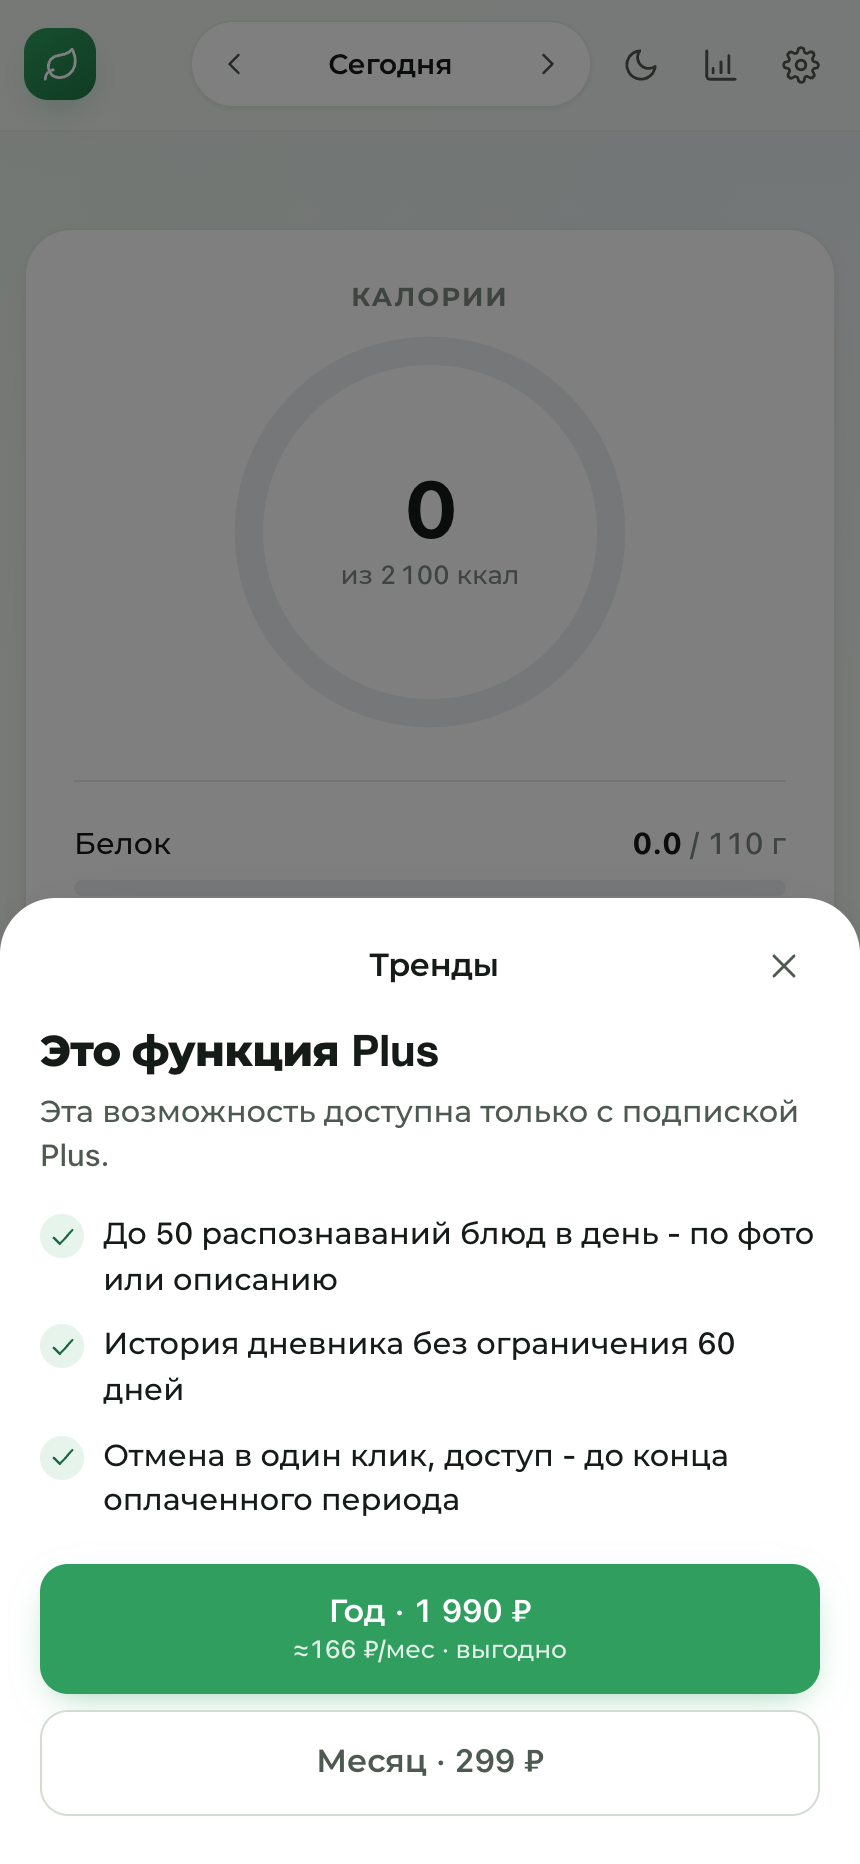
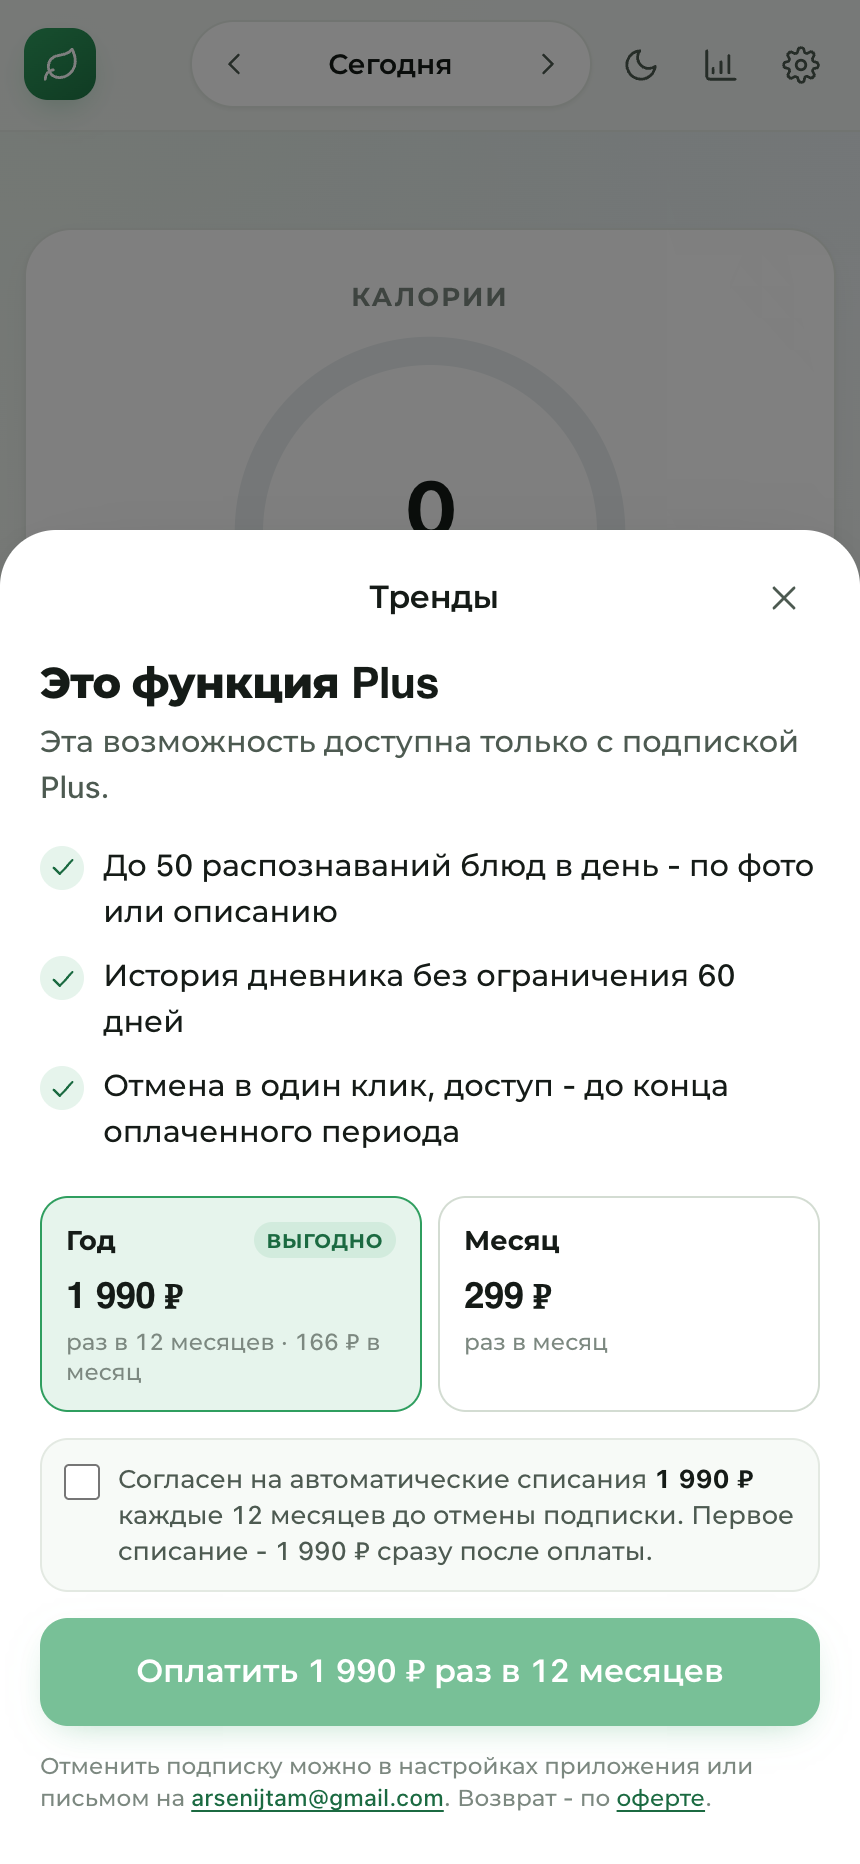
Пейволл: сумма и периодичность списания, чек-бокс согласия и контакты для отмены

diff --git a/web/src/components/PaywallSheet.tsx b/web/src/components/PaywallSheet.tsx
@@ -2,10 +2,16 @@
 import { useEffect, useState } from 'react';
 import { api, ApiError } from '../api';
 import { IconCheck } from './Icons';
+import '../styles/paywall.css';
 
 export type PaywallMode = 'quota' | 'feature' | 'plan';
 
 type Props = { mode: PaywallMode };
+
+type Plan = 'month' | 'year';
+
+/** Контакт для отмены подписки и возврата - требование банка-эквайера. */
+const SUPPORT_EMAIL = 'arsenijtam@gmail.com';
 
 const rub = (kopecks: number): string => (kopecks / 100).toLocaleString('ru-RU') + ' \u20BD';
 
@@ -29,7 +35,9 @@ const PERKS: string[] = [
 
 export function PaywallSheet({ mode }: Props) {
   const [status, setStatus] = useState<Awaited<ReturnType<typeof api.billingStatus>> | null>(null);
-  const [busy, setBusy] = useState<'month' | 'year' | null>(null);
+  const [plan, setPlan] = useState<Plan>('year');
+  const [consent, setConsent] = useState(false);
+  const [busy, setBusy] = useState<Plan | null>(null);
   const [error, setError] = useState<string | null>(null);
 
   useEffect(function () {
@@ -47,11 +55,19 @@ export function PaywallSheet({ mode }: Props) {
     };
   }, []);
 
-  const buy = function (plan: 'month' | 'year') {
+  const prices = status ? status.prices : { month: 29900, year: 199000 };
+  const amount = prices[plan];
+  const monthly = Math.round(prices.year / 12 / 100) * 100;
+  // Периодичность и сумма - прямо у кнопки: требование эквайринга.
+  const periodLabel = plan === 'year' ? 'раз в 12 месяцев' : 'раз в месяц';
+  const consentLabel = plan === 'year' ? 'каждые 12 месяцев' : 'каждый месяц';
+
+  const buy = function () {
+    if (!consent) return;
     setBusy(plan);
     setError(null);
     api
-      .checkout(plan)
+      .checkout(plan, true)
       .then(function (r) {
         window.location.href = r.paymentUrl;
       })
@@ -60,9 +76,6 @@ export function PaywallSheet({ mode }: Props) {
         setError(err instanceof ApiError ? err.message : 'Не удалось создать платёж.');
       });
   };
-
-  const month = status ? status.prices.month : 29900;
-  const year = status ? status.prices.year : 199000;
 
   return (
     <div className="paywall">
@@ -80,34 +93,68 @@ export function PaywallSheet({ mode }: Props) {
           );
         })}
       </ul>
-      {status && status.plus && (
-        <p className="paywall__active">Plus уже активен - приятного аппетита.</p>
-      )}
+
+      {status && status.plus && <p className="paywall__active">Plus уже активен - приятного аппетита.</p>}
       {error && <div className="alert alert-danger">{error}</div>}
-      <div className="d-grid gap-2">
-        <button
-          type="button"
-          className="btn btn-primary btn-lg w-100 paywall__cta"
-          disabled={busy !== null}
-          onClick={function () {
-            void buy('year');
-          }}
-        >
-          <span>Год · {rub(year)}</span>
-          <small>≈{Math.round(year / 12 / 100)} ₽/мес · выгодно</small>
-        </button>
-        <button
-          type="button"
-          className="btn btn-outline-secondary btn-lg w-100"
-          disabled={busy !== null}
-          onClick={function () {
-            void buy('month');
-          }}
-        >
-          {busy === 'month' ? 'Открываем банк…' : 'Месяц · ' + rub(month)}
-        </button>
+
+      <div className="paywall__plans" role="radiogroup" aria-label="Тариф подписки">
+        {(['year', 'month'] as Plan[]).map(function (p) {
+          const active = plan === p;
+          return (
+            <button
+              key={p}
+              type="button"
+              role="radio"
+              aria-checked={active}
+              className={'paywall__plan' + (active ? ' is-on' : '')}
+              onClick={function () {
+                setPlan(p);
+              }}
+            >
+              <span className="paywall__plan-head">
+                <b>{p === 'year' ? 'Год' : 'Месяц'}</b>
+                {p === 'year' && <span className="paywall__plan-badge">выгодно</span>}
+              </span>
+              <span className="paywall__plan-price">{rub(prices[p])}</span>
+              <span className="paywall__plan-note">
+                {p === 'year' ? 'раз в 12 месяцев · ' + rub(monthly) + ' в месяц' : 'раз в месяц'}
+              </span>
+            </button>
+          );
+        })}
       </div>
-      {busy === 'year' && <p className="hint mt-2 mb-0">Открываем банк…</p>}
+
+      <label className="paywall__consent">
+        <input
+          type="checkbox"
+          checked={consent}
+          onChange={function (e) {
+            setConsent(e.target.checked);
+          }}
+        />
+        <span>
+          Согласен на автоматические списания <b>{rub(amount)}</b> {consentLabel} до отмены подписки.
+          Первое списание - {rub(amount)} сразу после оплаты.
+        </span>
+      </label>
+
+      <button
+        type="button"
+        className="btn btn-primary btn-lg w-100"
+        disabled={!consent || busy !== null}
+        onClick={buy}
+      >
+        {busy ? 'Открываем банк…' : 'Оплатить ' + rub(amount) + ' ' + periodLabel}
+      </button>
+
+      <p className="paywall__legal">
+        Отменить подписку можно в настройках приложения или письмом на{' '}
+        <a href={'mailto:' + SUPPORT_EMAIL}>{SUPPORT_EMAIL}</a>. Возврат - по{' '}
+        <a href="/legal/offer.html" target="_blank" rel="noreferrer">
+          оферте
+        </a>
+        .
+      </p>
     </div>
   );
 }

diff --git a/web/src/styles/paywall.css b/web/src/styles/paywall.css
@@ -1,0 +1,96 @@
+
+/* ---------- Пейволл: выбор тарифа, согласие на списания ---------- */
+
+.paywall__plans {
+  display: grid;
+  grid-template-columns: 1fr 1fr;
+  gap: 0.5rem;
+  margin: 0 0 0.85rem;
+}
+
+.paywall__plan {
+  display: flex;
+  flex-direction: column;
+  gap: 0.1rem;
+  padding: 0.7rem 0.75rem;
+  text-align: left;
+  background-color: var(--surface);
+  border: 1.5px solid var(--line-2);
+  border-radius: var(--r);
+  transition: border-color var(--t-fast) var(--ease), background-color var(--t-fast) var(--ease);
+}
+
+.paywall__plan:hover { border-color: var(--accent); }
+
+.paywall__plan.is-on {
+  border-color: var(--accent);
+  background-color: var(--accent-soft);
+}
+
+.paywall__plan-head {
+  display: flex;
+  align-items: center;
+  justify-content: space-between;
+  gap: 0.4rem;
+  font-size: 0.8rem;
+  color: var(--text-2);
+}
+
+.paywall__plan-head b { font-size: 0.85rem; color: var(--text); font-weight: 700; }
+
+.paywall__plan-badge {
+  font-size: 0.62rem;
+  font-weight: 700;
+  text-transform: uppercase;
+  letter-spacing: 0.04em;
+  color: var(--accent-ink);
+  background-color: var(--accent-soft-2);
+  border-radius: var(--r-full);
+  padding: 0.1rem 0.4rem;
+}
+
+.paywall__plan-price {
+  font-family: 'Montserrat', sans-serif;
+  font-weight: 800;
+  font-size: 1.15rem;
+  letter-spacing: -0.02em;
+  color: var(--text);
+  margin-top: 0.15rem;
+}
+
+.paywall__plan-note { font-size: 0.72rem; line-height: 1.3; color: var(--muted); }
+
+.paywall__consent {
+  display: flex;
+  align-items: flex-start;
+  gap: 0.55rem;
+  margin: 0 0 0.85rem;
+  padding: 0.65rem 0.7rem;
+  background-color: var(--surface-2);
+  border: 1px solid var(--line);
+  border-radius: var(--r);
+  font-size: 0.8rem;
+  line-height: 1.4;
+  color: var(--text-2);
+  cursor: pointer;
+}
+
+.paywall__consent input {
+  flex: none;
+  width: 18px;
+  height: 18px;
+  margin: 1px 0 0;
+  accent-color: var(--accent);
+  cursor: pointer;
+}
+
+.paywall__consent b { color: var(--text); font-weight: 700; }
+
+.paywall__legal {
+  margin: 0.75rem 0 0;
+  font-size: 0.72rem;
+  line-height: 1.45;
+  color: var(--muted);
+}
+
+.paywall__legal a { color: var(--accent-ink); text-decoration: underline; text-underline-offset: 2px; }

diff --git a/backend/src/routes/payments.ts b/backend/src/routes/payments.ts
@@ -22,7 +22,11 @@ import { getState, initPayment, verifyWebhook } from '../services/tbank.js';
  * до authHook, как /api/auth/*), остальное — только с сессией.
  */
 
-const checkoutBody = z.object({ plan: z.enum(['month', 'year']) });
+const checkoutBody = z.object({
+  plan: z.enum(['month', 'year']),
+  /** Согласие покупателя на автоматические списания: ставится чек-боксом. */
+  consent: z.boolean().optional(),
+});
 
 type PaymentRow = {
   id: string;
@@ -132,9 +136,17 @@ export async function paymentsAuthRoutes(app: FastifyInstance): Promise<void> {
     }
     const amount = planPrice(plan);
     const oid = orderId(userId);
+    // Согласие фиксируем вместе с платежом: при споре с банком видно,
+    // что покупатель подтвердил автоплатежи до оплаты.
+    const consentRecord = {
+      consent: parsed.data.consent === true,
+      at: new Date().toISOString(),
+      amount: amount,
+      plan: plan,
+    };
     const created = await query<{ id: string }>(
-      "INSERT INTO payments (user_id, order_id, amount, plan, kind, status) VALUES ($1, $2, $3, $4, 'initial', 'pending') RETURNING id::text AS id",
-      [userId, oid, amount, plan],
+      "INSERT INTO payments (user_id, order_id, amount, plan, kind, status, raw) VALUES ($1, $2, $3, $4, 'initial', 'pending', $5::jsonb) RETURNING id::text AS id",
+      [userId, oid, amount, plan, JSON.stringify(consentRecord)],
     );
     const rowId = created.length ? created[0].id : null;
     const me = await one<{ email: string }>('SELECT email FROM users WHERE id = $1', [userId]);

diff --git a/landing/legal/offer.html b/landing/legal/offer.html
@@ -108,8 +108,9 @@
   платёжным сервисом.</p>
 
   <h2 id="o6">6. Рекуррентные списания</h2>
-  <p>6.1. Оформляя подписку, Пользователь даёт согласие на периодические списания стоимости
-  выбранного периода до момента отмены подписки.</p>
+  <p>6.1. Перед оплатой Пользователю показываются сумма и периодичность списания, и он
+  отдельно подтверждает согласие на периодические списания: проставляет отметку в
+  соответствующем поле. Без этой отметки оплата недоступна.</p>
   <p>6.2. Списание производится в дату, соответствующую дате оформления, по выбранному периоду:
   раз в месяц или раз в год.</p>
   <p>6.3. Исполнитель уведомляет Пользователя о предстоящем списании не позднее чем за 3 дня,

diff --git a/web/src/api.ts b/web/src/api.ts
@@ -164,8 +164,9 @@ export const api = {
       tbank: boolean;
     }>('/api/billing/status'),
 
-  checkout: (plan: 'month' | 'year') =>
-    request<{ paymentUrl: string; orderId: string }>('/api/checkout', json({ plan })),
+  /** consent - подтверждение автоплатежей, которое поставил покупатель. */
+  checkout: (plan: 'month' | 'year', consent = false) =>
+    request<{ paymentUrl: string; orderId: string }>('/api/checkout', json({ plan, consent })),
 
   cancelSubscription: () =>
     request<{ ok: true; current_end: string | null }>('/api/billing/cancel', {
